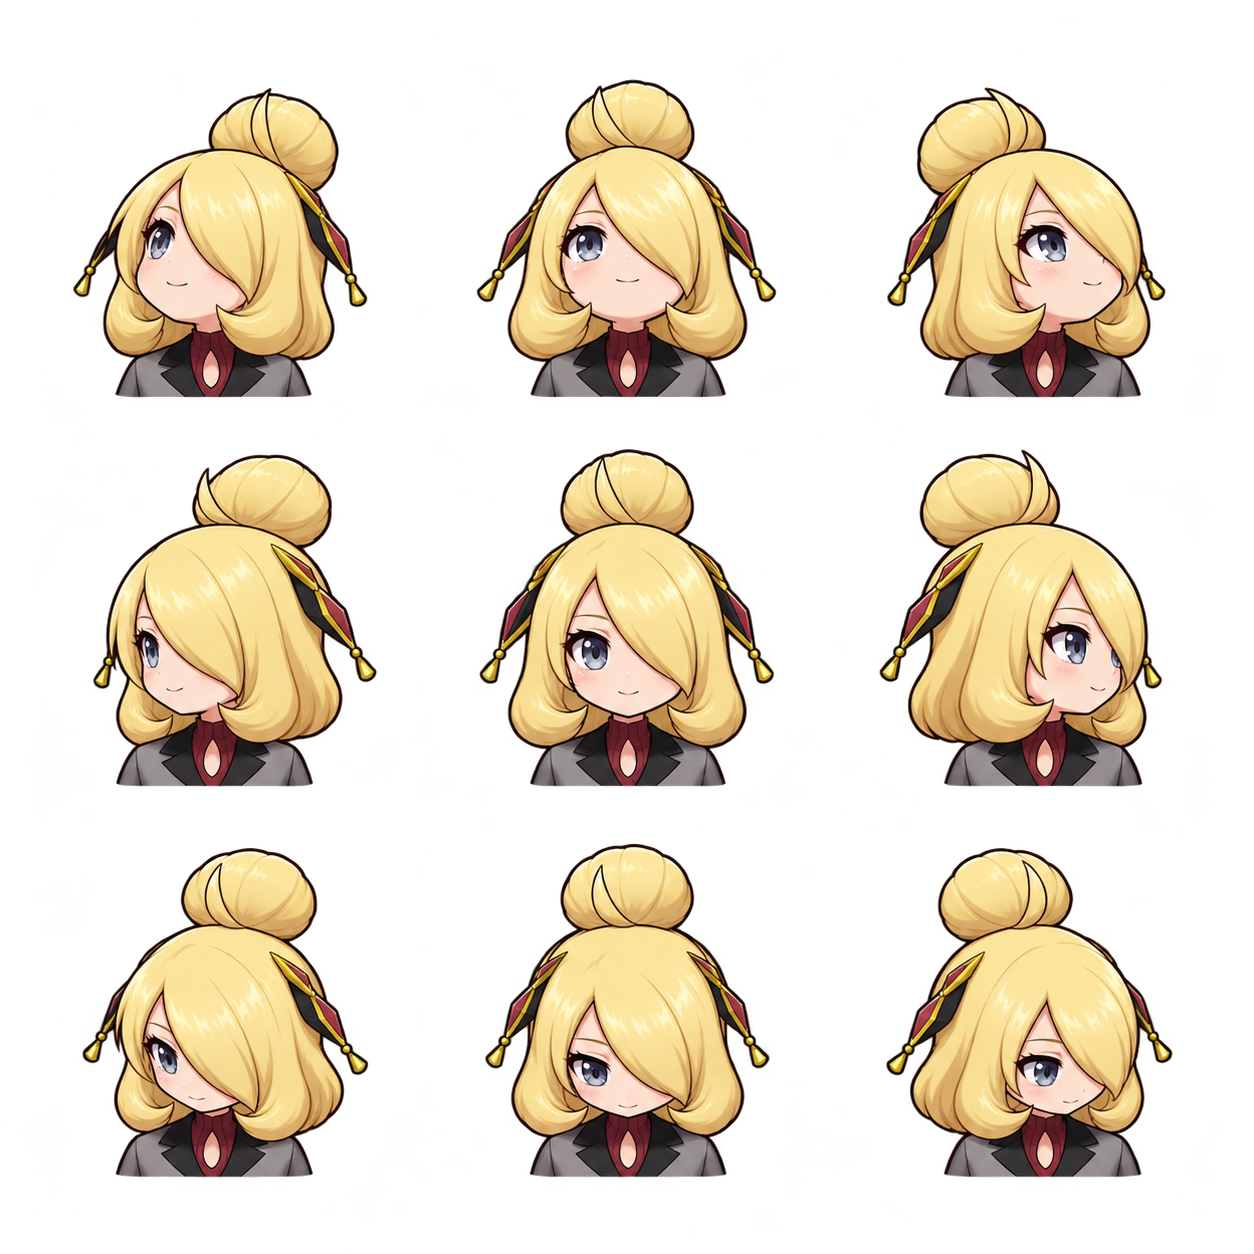
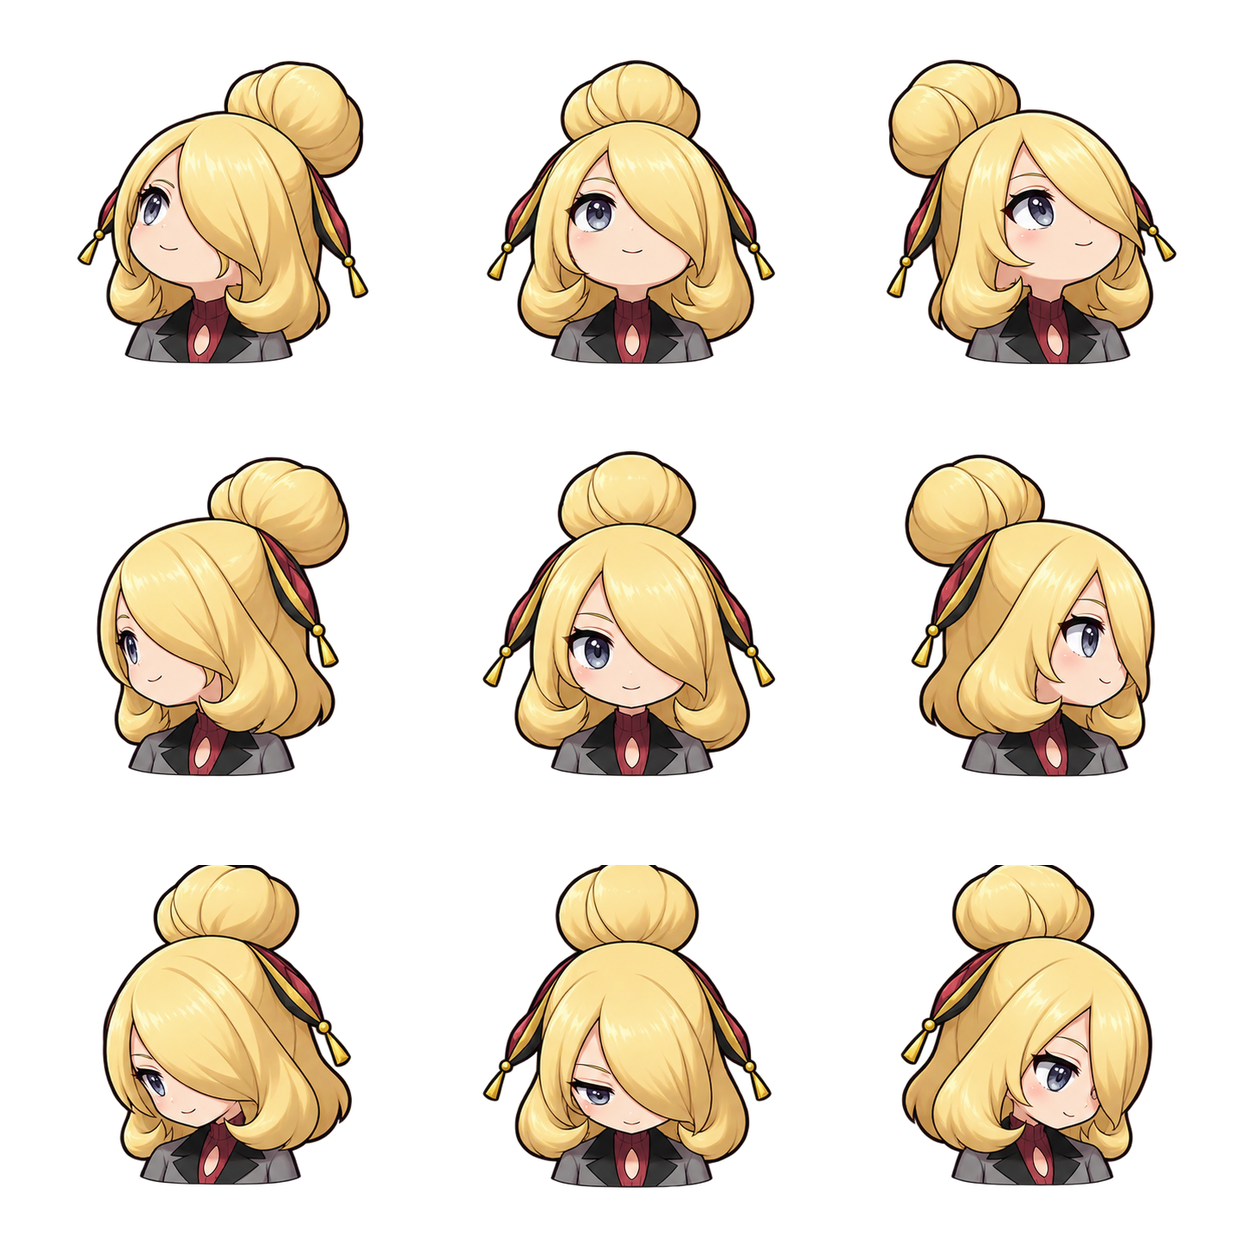
Restore fuller portraits and add hand-drawn pixel mascots

Changed region(s): [[0.6842, 0.0311, 0.933, 0.9641], [0.0622, 0.0311, 0.311, 0.9641], [0.3732, 0.0311, 0.622, 0.9641]]

diff --git a/src/main.js b/src/main.js
@@ -5,7 +5,7 @@
 import { createApi, isDemo } from './api.js';
 import { ico } from './icons.js';
 import { STYLES, ACCENTS, MODES, getAppearance, applyAppearance } from './appearance.js';
-import { MASCOTS, MASCOT_STYLES, mascotHead, mountCompanion } from './mascot.js';
+import { MASCOTS, MASCOT_STYLES, mascotHead, mountCompanion } from './mascot.js?v=20261027-trainers2';
 import { t, getLang, setLang, LANGS, locale } from './i18n.js';
 import { TOWER_TOP, circuitAt, roundShort, seasonState, pointsIn, validateRun, readiness, pairWeight, levelLabel, suggestTeam } from './rules.js';
 import { browserTz, allTimezones, validTz, toLocalInput, fromLocalInput, clockIn } from './time.js';

diff --git a/src/mascot.js b/src/mascot.js
@@ -34,7 +34,8 @@ const SQUASH = [
   { transform: 'scale(1, 1)' },
 ];
 const pos = i => `${(i % 3) * 50}% ${Math.floor(i / 3) * 50}%`;
-const sheet = (id, style, kind) => `assets/mascots/${fileOf(id)}${resolveStyle(style) === 'pixel' ? '-pixel' : ''}-${kind}.webp`;
+// Refresh previously cached portraits when the replacement set is deployed.
+const sheet = (id, style, kind) => `assets/mascots/${fileOf(id)}${resolveStyle(style) === 'pixel' ? '-pixel' : ''}-${kind}.webp?v=20261027-trainers2`;
 const reduced = () => matchMedia('(prefers-reduced-motion: reduce)').matches;
 
 // Static head (the "center" cell) — used as the brand logo and in Settings

diff --git a/index.html b/index.html
@@ -50,6 +50,6 @@
   </footer>
 
   <script src="config.js"></script>
-  <script type="module" src="src/main.js?v=8"></script>
+  <script type="module" src="src/main.js?v=9"></script>
 </body>
 </html>

diff --git a/tools/mascot-pixel.py b/tools/mascot-pixel.py
@@ -1,12 +1,104 @@
-"""Make the pixel rendering from aligned atlases without changing cell placement."""
+"""Build hand-drawn pixel sources using the page-mascot alignment pipeline.
+
+All alignment resampling is nearest-neighbour and the bottom vignette is disabled,
+so the exported pixel artwork never acquires the Modern atlas's soft edges.
+"""
+import argparse
+import os
+import re
+import shutil
+import subprocess
+import sys
+import tempfile
 from pathlib import Path
+import numpy as np
 from PIL import Image
+from scipy import ndimage
 
 root = Path(__file__).resolve().parents[1]
-for name in ('red', 'cynthia', 'dawn', 'gloria'):
+parser = argparse.ArgumentParser(description=__doc__)
+parser.add_argument('names', nargs='*', default=['red', 'cynthia', 'dawn', 'gloria'])
+parser.add_argument('--skill-dir', type=Path, default=Path.home() / '.agents/skills/page-mascot')
+parser.add_argument('--prepare-only', action='store_true', help='Normalize/screen directions before generating reactions')
+args = parser.parse_args()
+scripts = args.skill_dir / 'scripts'
+build_source = (scripts / 'build.py').read_text().replace('Image.LANCZOS', 'Image.Resampling.NEAREST')
+
+for name in args.names:
+    source = root / 'characters' / f'{name}-pixel'
+    original = source / 'directions-original.png'
+    if original.is_file():
+        image = Image.open(original).convert('RGBA')
+        if image.width != image.height:
+            # Recover the nine separate sprites from an uneven generated layout.
+            pixels = np.array(image)
+            labels, count = ndimage.label(pixels[:, :, 3] > 64)
+            ids = np.argsort(np.bincount(labels.ravel())[1:])[-9:] + 1
+            items = []
+            for label in ids:
+                ys, xs = np.where(labels == label)
+                items.append((ys.mean(), xs.mean(), label, (xs.min(), ys.min(), xs.max() + 1, ys.max() + 1)))
+            items.sort()
+            ordered = []
+            for row in range(3):
+                ordered.extend(sorted(items[row * 3:(row + 1) * 3], key=lambda item: item[1]))
+            scale = 310 / max(max(box[2] - box[0], box[3] - box[1]) for _, _, _, box in ordered)
+            tile = 418
+            cleaned = Image.new('RGBA', (tile * 3, tile * 3))
+            for index, (_, _, label, _) in enumerate(ordered):
+                keep = ndimage.binary_dilation(labels == label, iterations=2)
+                ys, xs = np.where(keep)
+                x0, y0, x1, y1 = xs.min(), ys.min(), xs.max() + 1, ys.max() + 1
+                crop = pixels[y0:y1, x0:x1].copy()
+                crop[~keep[y0:y1, x0:x1]] = 0
+                frame = Image.fromarray(crop).resize((round((x1 - x0) * scale), round((y1 - y0) * scale)), Image.Resampling.NEAREST)
+                cleaned.alpha_composite(frame, (index % 3 * tile + (tile - frame.width) // 2, index // 3 * tile + 370 - frame.height))
+        else:
+            tile = image.width // 3
+            cleaned = Image.new('RGBA', image.size)
+            for index in range(9):
+                x, y = index % 3 * tile, index // 3 * tile
+                pixels = np.array(image.crop((x, y, x + tile, y + tile)))
+                mask = pixels[:, :, 3] > 64
+                labels, count = ndimage.label(mask)
+                main = labels == int(np.argmax(ndimage.sum(mask, labels, range(1, count + 1)))) + 1
+                pixels[~ndimage.binary_dilation(main, iterations=2)] = 0
+                frame = Image.fromarray(pixels).resize((360, 360), Image.Resampling.NEAREST)
+                cleaned.alpha_composite(frame, (x + (tile - 360) // 2, y + (tile - 360) // 2))
+        cleaned.save(source / 'directions.png')
+    if args.prepare_only:
+        subprocess.run([sys.executable, str(scripts / 'screen.py'), str(source / 'directions.png')], check=True)
+        continue
     for kind in ('directions', 'reactions'):
-        source = root / 'assets' / 'mascots' / f'{name}-{kind}.webp'
-        image = Image.open(source).convert('RGBA')
-        # 60px per cell retains the small accessories, with crisp square pixels.
-        image = image.resize((180, 180), Image.Resampling.NEAREST)
-        image.save(source.with_name(f'{name}-pixel-{kind}.webp'), lossless=True)
+        if not (source / f'{kind}.png').is_file():
+            raise SystemExit(f'Missing hand-drawn source: {source / kind}.png')
+    with tempfile.TemporaryDirectory(prefix='pmex-pixel-') as temporary:
+        directory = Path(temporary)
+        builder = directory / 'build-nearest.py'
+        builder.write_text(build_source)
+        env = {**os.environ, 'MASCOT_ROOT': str(root), 'MASCOT_DEST': str(directory)}
+        subprocess.run([sys.executable, str(builder), f'{name}-pixel', '--anchor', 'shoulders', '--no-vignette'], env=env, check=True)
+        sheets = [Image.open(directory / f'{name}-pixel-{kind}.webp').convert('RGBA').resize((288, 288), Image.Resampling.NEAREST) for kind in ('directions', 'reactions')]
+        # A shared palette prevents the character's colours changing on a click.
+        combined = Image.new('RGB', (288, 576))
+        for row, sheet in enumerate(sheets):
+            combined.paste(sheet.convert('RGB'), (0, row * 288))
+        palette = combined.quantize(colors=64, dither=Image.Dither.NONE)
+        final = directory / 'final'
+        final.mkdir()
+        for kind, sheet in zip(('directions', 'reactions'), sheets):
+            alpha = sheet.getchannel('A').point(lambda value: 255 if value >= 128 else 0)
+            image = sheet.convert('RGB').quantize(palette=palette, dither=Image.Dither.NONE).convert('RGBA')
+            image.putalpha(alpha)
+            image.save(final / f'{name}-pixel-{kind}.webp', lossless=True)
+        report = subprocess.run([sys.executable, str(scripts / 'verify.py'), f'{name}-pixel'], env={**env, 'MASCOT_DEST': str(final)}, check=True, capture_output=True, text=True)
+        shift = float(re.search(r'moves ([\d.]+) rendered px', report.stdout)[1])
+        width = float(re.search(r'worst width change: \S+ at ([\d.]+)%', report.stdout)[1])
+        match = float(re.search(r'weakest palette match: \S+ at ([\d.]+)%', report.stdout)[1])
+        if shift > 2 or width > 12 or match < 22:
+            raise SystemExit(f'{name}: pixel alignment failed; previous atlases retained.\n{report.stdout}')
+        for kind in ('directions', 'reactions'):
+            path = f'{name}-pixel-{kind}.webp'
+            shutil.copy2(final / path, root / 'assets/mascots' / path)
+        (source / 'validation.txt').write_text(report.stdout)
+        print(report.stdout)

diff --git a/tools/mascot-contact-sheet.py b/tools/mascot-contact-sheet.py
@@ -4,18 +4,22 @@ from PIL import Image, ImageDraw
 
 root = Path(__file__).resolve().parents[1]
 names = ('red', 'cynthia', 'dawn', 'gloria')
-canvas = Image.new('RGB', (960, 600), '#f6f4ef')
-draw = ImageDraw.Draw(canvas)
-draw.rectangle((0, 300, 960, 600), fill='#161b28')
-for index, name in enumerate(names):
-    for row, kind in enumerate(('directions', 'reactions')):
-        image = Image.open(root / 'assets' / 'mascots' / f'{name}-{kind}.webp').convert('RGBA')
-        tile = image.width // 3
-        # Straight-ahead directions, delighted expressions.
-        cell = 4 if row == 0 else 8
-        col, source_row = cell % 3, cell // 3
-        image = image.crop((col * tile, source_row * tile, (col + 1) * tile, (source_row + 1) * tile))
-        image = image.resize((220, 220), Image.Resampling.LANCZOS)
-        canvas.paste(image, (index * 240 + 10, row * 300 + 25), image)
-        draw.text((index * 240 + 90, row * 300 + 260), name.title(), fill='#202332' if row == 0 else '#ffffff')
-canvas.save(root / 'assets' / 'mascots' / 'trainer-preview.jpg', quality=95)
+for style in ('', '-pixel'):
+    canvas = Image.new('RGB', (960, 600), '#f6f4ef')
+    draw = ImageDraw.Draw(canvas)
+    draw.rectangle((0, 300, 960, 600), fill='#161b28')
+    for index, name in enumerate(names):
+        for row, kind in enumerate(('directions', 'reactions')):
+            image = Image.open(root / 'assets' / 'mascots' / f'{name}{style}-{kind}.webp').convert('RGBA')
+            tile = image.width // 3
+            # Straight-ahead directions, delighted expressions.
+            cell = 4 if row == 0 else 8
+            col, source_row = cell % 3, cell // 3
+            image = image.crop((col * tile, source_row * tile, (col + 1) * tile, (source_row + 1) * tile))
+            image = image.resize((220, 220), Image.Resampling.NEAREST if style else Image.Resampling.LANCZOS)
+            canvas.paste(image, (index * 240 + 10, row * 300 + 25), image)
+            draw.text((index * 240 + 90, row * 300 + 260), name.title(), fill='#202332' if row == 0 else '#ffffff')
+    if style:
+        canvas.save(root / 'assets' / 'mascots' / 'trainer-pixel-preview.png')
+    else:
+        canvas.save(root / 'assets' / 'mascots' / 'trainer-preview.jpg', quality=95)

diff --git a/tools/mascot-modern.py b/tools/mascot-modern.py
@@ -1,0 +1,33 @@
+"""Restore the user's preferred first Cynthia/Gloria sheets and build fuller busts."""
+import os
+import subprocess
+import sys
+from pathlib import Path
+
+import numpy as np
+from PIL import Image
+from scipy import ndimage
+
+root = Path(__file__).resolve().parents[1]
+skill = Path.home() / '.agents/skills/page-mascot/scripts'
+for name in ('cynthia', 'gloria'):
+    source = root / 'characters' / name
+    image = Image.open(source / 'directions-original.png').convert('RGBA')
+    tile = image.width // 3
+    output = Image.new('RGBA', image.size)
+    for index in range(9):
+        x, y = index % 3 * tile, index // 3 * tile
+        pixels = np.array(image.crop((x, y, x + tile, y + tile)))
+        mask = pixels[:, :, 3] > 64
+        labels, count = ndimage.label(mask)
+        sizes = ndimage.sum(mask, labels, range(1, count + 1))
+        main = labels == int(np.argmax(sizes)) + 1
+        # Keep the original drawing; remove detached fragments between cells.
+        pixels[~ndimage.binary_dilation(main, iterations=2)] = 0
+        frame = Image.fromarray(pixels).resize((360, 360), Image.Resampling.LANCZOS)
+        output.alpha_composite(frame, (x + (tile - 360) // 2, y + (tile - 360) // 2))
+    output.save(source / 'directions.png')
+    env = {**os.environ, 'FADE_DEPTH': '0.035', 'MASCOT_ROOT': str(root)}
+    result = subprocess.run([sys.executable, str(skill / 'mascot.py'), name, '--skip-generate', '--dest', str(root / 'assets/mascots')], env=env, capture_output=True, text=True, check=True)
+    (source / 'validation.txt').write_text(result.stdout)
+    print(result.stdout)

diff --git a/characters/README.md b/characters/README.md
@@ -4,8 +4,14 @@ Generated with the built-in image generation tool using the four reference image
 
 Each character has `directions.png` (nine head turns) and `reactions.png` (nine expressions). The page-mascot skill builds and aligns them into `assets/mascots/<name>-{directions,reactions}.webp`.
 
-The `-pixel` atlases are a nearest-neighbour, reduced-resolution rendering of the same aligned artwork, rather than a separately redrawn character. Existing appearance preferences and mascot IDs remain compatible.
+The `-pixel` atlases are separately generated 16-bit pixel artwork, with their own source sheets in `<name>-pixel/`. Alignment uses nearest-neighbour resampling, a shared 64-colour palette and binary alpha; it does not downscale the Modern portraits to create the artwork. Existing appearance preferences and mascot IDs remain compatible.
 
 Characters: Red, Cynthia (Shirona), Dawn (Hikari), Gloria (Yuri). These are fan-art adaptations of the supplied Pokémon Masters EX character references.
 
 Build with the page-mascot skill's `scripts/mascot.py <name> --skip-generate --dest assets/mascots`. Python requires Pillow, NumPy and SciPy. Generation prompts and validation results are retained alongside each source pair.
+
+## Preferred first portraits
+
+Cynthia and Gloria use the user's preferred first directions sheets, retained unchanged as `directions-original.png`. `tools/mascot-modern.py` removes disconnected fragments, pads the cells and rebuilds those two with a shallow 3.5% bottom fade to preserve their fuller hair and shoulders. It does not redraw the selected art.
+
+Run `python tools/mascot-pixel.py` to build the four pixel atlases from their own source PNGs. Pass a character name to rebuild only that pair. The script uses the installed page-mascot skill at `~/.agents/skills/page-mascot` (or `--skill-dir`). `tools/mascot-contact-sheet.py` creates the light/dark previews.

diff --git a/README.md b/README.md
@@ -138,4 +138,4 @@ test/e2e.html             clicks through the demo in an iframe
 
 ## Credits
 
-Sync pair data and icons from the [PoMasters Sync Pairs Tracker](https://pomasters.github.io/SyncPairsTracker/). Gym Battle data and Gym Leader pixel sprites (Pokémon Showdown trainer sprites) from the [PMEX Dex](https://github.com/Kietto03/pmex-supez-dex) datamine build. Mascot component and sprite-sheet format from [page-mascot](https://github.com/nilbuild/page-mascot) (MIT, Kamran Ahmed); the four trainer mascots are chibi fan-art adaptations of user-supplied character references, generated with the built-in image tool and aligned using that skill. Source sheets and prompts are kept in `characters/`; `test/mascot-preview.html` previews all four, and `tools/mascot-pixel.py` builds their reduced-resolution pixel renderings. Fan project, not affiliated with DeNA or The Pokémon Company; game assets belong to their owners.
+Sync pair data and icons from the [PoMasters Sync Pairs Tracker](https://pomasters.github.io/SyncPairsTracker/). Gym Battle data and Gym Leader pixel sprites (Pokémon Showdown trainer sprites) from the [PMEX Dex](https://github.com/Kietto03/pmex-supez-dex) datamine build. Mascot component and sprite-sheet format from [page-mascot](https://github.com/nilbuild/page-mascot) (MIT, Kamran Ahmed); the four trainer mascots are chibi fan-art adaptations of user-supplied character references, generated with the built-in image tool and aligned using that skill. Source sheets and prompts are kept in `characters/`; `test/mascot-preview.html` previews all four. The Pixel set is separately drawn 16-bit artwork; `tools/mascot-pixel.py` aligns it using nearest-neighbour resampling and a shared palette. Fan project, not affiliated with DeNA or The Pokémon Company; game assets belong to their owners.
